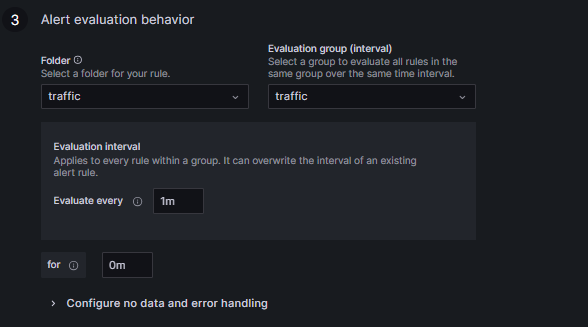
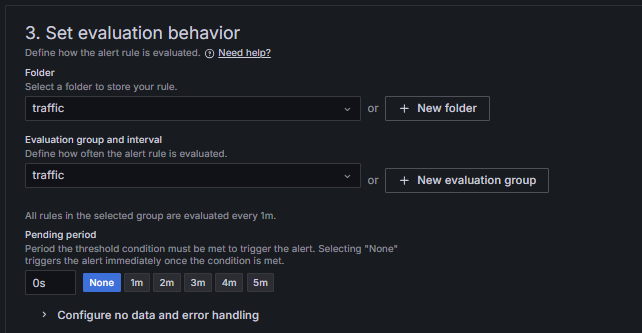
Finish lab 4 review

diff --git a/08-observabilidad-infra-aplicaciones/labs/04-Intro_Grafana/README.md b/08-observabilidad-infra-aplicaciones/labs/04-Intro_Grafana/README.md
@@ -1,6 +1,6 @@
 # Lab 8.4 - Introducción a Grafana
 
-> Este laboratorio es opcional. Está basado en el tutorial [Grafana fundamentals](https://grafana.com/tutorials/grafana-fundamentals/) con algunas modificaciones
+> Este laboratorio está basado en el tutorial [Grafana fundamentals](https://grafana.com/tutorials/grafana-fundamentals/) con algunas modificaciones
 
 ## Objetivos
 En esta práctica, aprenderemos conceptos básicos de Grafana, Loki y Prometheus. Aportando la base para la monitorización de Métricas y Logs en Grafana y los mecanismos de alarmas que nos proporciona.
@@ -47,7 +47,7 @@ Podremos ver el DNS público de la instancia en la salida del Terraform: instanc
 
 4- Accede a `Grafana` en el puerto 3000 con `HTTPS` (https://ecx-x-xxx-xx-xxx.compute-1.amazonaws.com:3000) y haz login con las siguientes credenciales:
 - **Username**: admin
-- **Password**: cloud2023
+- **Password**: cloud2024
 
 Si todo ha ido bien, deberíamos de ver la pantalla inicial de Grafana
 
@@ -72,7 +72,7 @@ Si hacemos la búsqueda, nos deberia devolver datos parecidos a este:
 ```promql
 tns_request_duration_seconds_count{instance="app:80", job="tns_app", method="GET", route="other", status_code="404", ws="false"}
 ````
-Cada una de las lineas que nos devuelve es una serie, si te fijas, prometheus crea una serie para cada conjunto de metadatos que recolecta. De manera que tendremos una serie para por ejemplo las peticiones `GET de /vote` y otra para las `GET de /other`.
+Cada una de las líneas que nos devuelve es una serie, si te fijas, `Prometheus` crea una serie para cada conjunto de metadatos que recolecta. De manera que tendremos una serie para por ejemplo las peticiones `GET de /vote` y otra para las `GET de /other`.
 
 6.1- Modifica la consulta por `rate(tns_request_duration_seconds_count[5m])`. Utilizando la función `rate` obtendrás el ratio de incremento de peticiones por segundo, en base a los datos obtenidos durante los últimos 5 minutos. Genera trafico en la aplicación `Grafana news` para observar el incremento en el número de peticiones por segundo.
 
@@ -137,7 +137,7 @@ Los dashboards están formados por paneles, cada uno formado por una `consulta` 
 9.1 - Para ello accederemos al Menu `Dashboards` y crearemos una visualización a partir del datasource `Prometheus`
 ![Create dashboard](./img/create_dashboard.png)
 
-9.2 - En esta visualización, mostraremos una gráfica del número de peticiones recibidas por segundo, agregando por cada ruta
+9.2 - En esta visualización, mostraremos una gráfica del número de peticiones recibidas por segundo, agregando por cada ruta. Incluye la gráfica en el dashboard haciendo click al botón `apply`.
 
 ```promql
 sum(rate(tns_request_duration_seconds_count[$__rate_interval])) by(route)
@@ -156,11 +156,11 @@ sum(rate(tns_request_duration_seconds_sum[$__rate_interval])) by (route) / sum(r
 
 </details>
 
-9.4 - También podemos añadir anotaciones en los gráficos, guarda el dashboard haciendo click al icono de guardado y haz doble click sobre cualquier gráfico para añadir una anotación. También puedes seleccionar intervalos de tiempo manteniendo pulsado el `CTRL`
+9.4 - También podemos añadir anotaciones en los gráficos. Guarda el dashboard haciendo click al icono de guardado y haz doble click sobre cualquier punto del gráfico para añadir una anotación. También puedes seleccionar intervalos de tiempo manteniendo pulsado el `CTRL`
 
 ![Annotations 1](./img/annotacions_1.png)
 
-9.5 - Hacer anotaciones manuales nos puede servir para eventos puntuales. Grafana nos permite añadir anotaciones automàticas basadas en consultas a otras bases de datos. A continuacion, vamos a añadir una anotación por cada error que registre Loki 
+9.5 - Hacer anotaciones manuales nos puede servir para eventos puntuales. Grafana nos permite añadir anotaciones automáticas basadas en consultas a otras bases de datos. A continuación, vamos a añadir una anotación por cada error que registre Loki 
 
 Seleccionamos el engranaje del menú superior para entrar a la configuración del dashboard y nos vamos al submenú `Annotations` para crear una nueva anotación. Seleccionamos el datasource de Loki e introducimos la query que hemos visto anteriormente para obtener los errores. Finalmente haremos click en `Apply` para guardar los cambios
 
@@ -179,26 +179,30 @@ Si volvemos al dashboard y provocamos algunos errores en la web de `Grafana news
 
 En este apartado, crearemos una alarma que nos avise cuando el número de peticiones por segundo de cualquier endpoint supere un valor determinado (0,25)
 
-10.1 - Para ello, accederemos al Menu `Home > Alerting > Alert Rules > New Rule` y definiremos una alerta `Traffic Alert` a partir de la consulta que hemos visto anteriormente
+10.1 - Para ello, accederemos al Menu `Home > Alerting > Alert Rules > New Alert Rule` y definiremos una alerta `Traffic Alert` a partir de la consulta que hemos visto anteriormente
 
 ```promql
 sum(rate(tns_request_duration_seconds_count[5m])) by(route)
 ```
-10.2 - Borraremos los puntos `B` / `C` y crearemos una única expresión de tipo `classic condition` que lanzará la alarma en caso de que exista un TimeSeries con valor `0,25` o superior. Tal y como se muestra en la siguiente imagen
+10.2 - Borraremos los puntos `B` / `C` y crearemos una única expresión de tipo `classic condition` que lanzará la alarma en caso de que exista un TimeSeries con valor `0,25` o superior. Tal y como se muestra en la siguiente imagen. *No te olvides de marcarla como `Alert Condition`*
 
 ![Alt text](./img/alert_1.png)
 
-10.3 - Indicaremos el comportamiento que deseamos, definiendo la carpeta donde se guardará esta alerta (*Si no tienes ninguna, tienes que escribir el nombre en el selector y darle a la tecla ENTER*) y el grupo de evaluación (*lo tendrás que crear de la misma forma*). Indicando que todas las alarmas del grupo `traffic` se van a evaluar cada minuto `Evaluate query = 1m` y que se deberá lanzar la alarma nada más se viole la condición definida, indicando `for = 0m`.
+10.3 - Indicaremos el comportamiento que deseamos, definiendo la carpeta donde se guardará esta alerta (*Si no tienes ninguna, tienes que utilizar la opción New folder*) y el grupo de evaluación (*lo tendrás que crear de la misma forma*). Indicando que todas las alarmas del grupo `traffic` se van a evaluar cada minuto `Evaluate query = 1m` y que se deberá lanzar la alarma nada más se viole la condición definida, indicando `Pending Period = 0m`.
 
 ![Alt text](./img/alert_2.png)
+
+10.3.1 - Finalmente, indicaremos que la alarma deberá seguir la política de notificaciones definida en Grafana, que modificaremos más adelante.
+
+![alt text](./img/set_contact_point_grafana.png)
 
 Dejaremos el resto de atributos por defecto y guardaremos la alarma con el botón del margen superior derecho (`Save Rule and Exit`).
 
 10.4 - A continuación crearemos el `contact point`, indicando como lanzar la acción de notificación cuando salte la alarma
 (`Home > Alerting > Contact Points > Add contact point`).
-Podemos utilizar la integración de Slack y lanzar la notificación por el webhook que hemos creado en el lab 2 o crear un webhook public nuevo con <https://requestbin.com/> haciendo click al link `public bin` para generar la url del webhook. 
+Podemos crear un webhook público nuevo con <https://requestbin.com/> haciendo click al link `public bin` para generar la url del webhook. 
 
-En este ejemplo, utilizaremos el webhook de Slack que ya tenemos precreado.
+En este ejemplo, utilizaremos el webhook de Slack que ya tenemos precreado del laboratorio 2.
 
 ![Alt text](./img/contact_point_1.png)
 
